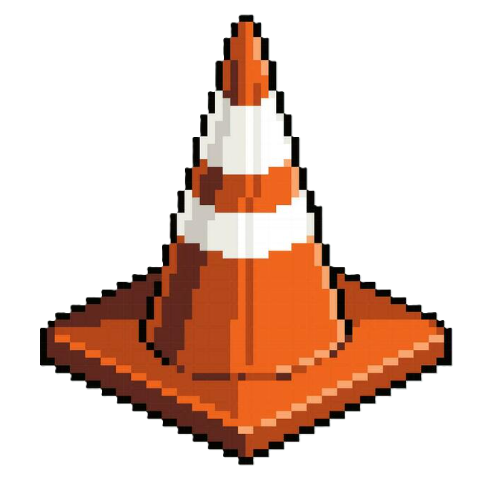
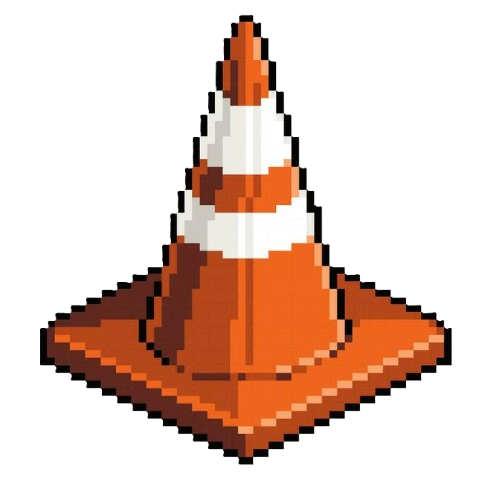
Got the layered background working as well as added images to all the sprites.

diff --git a/main.py b/main.py
@@ -45,14 +45,21 @@ FramePerSec = pygame.time.Clock()
 window = pygame.display.set_mode((SCREEN_WIDTH, SCREEN_HEIGHT), pygame.SCALED)
 pygame.display.set_caption("Game")
 
-# Load the background image
-bg_img1 = pygame.transform.scale(pygame.image.load('assets/background1.jpg'), (SCREEN_WIDTH, SCREEN_HEIGHT))
-bg_imgs = [bg_img1]
+# Load images
+bg_img1 = pygame.transform.scale(pygame.image.load('assets/background_v2/foreground.png').convert_alpha(), (SCREEN_WIDTH, SCREEN_HEIGHT))
+bg_img2 = pygame.transform.scale(pygame.image.load('assets/background_v2/back-buildings.png').convert_alpha(), (SCREEN_WIDTH, SCREEN_HEIGHT))
+bg_img3 = pygame.transform.scale(pygame.image.load('assets/background_v2/far-buildings.png').convert_alpha(), (SCREEN_WIDTH, SCREEN_HEIGHT))
+bg_imgs = [bg_img3,bg_img2,bg_img1]
+player_imgs = []
+for i in range(8): player_imgs.append(pygame.transform.scale((pygame.image.load('assets/fugitive/fugitive_%d.png' % (i+1)).convert_alpha()),(SCREEN_WIDTH*0.06, SCREEN_HEIGHT*0.1)))
+cone_image = pygame.transform.scale(pygame.image.load('assets/cone.png').convert_alpha(),(SCREEN_WIDTH*0.06, SCREEN_HEIGHT*0.1))
+dumpster_image = pygame.transform.scale(pygame.image.load('assets/dumpster.png').convert_alpha(),(SCREEN_WIDTH*0.2, SCREEN_HEIGHT*0.3))
+cop_image = pygame.transform.scale(pygame.image.load('assets/cop.png').convert_alpha(),(SCREEN_WIDTH*0.12, SCREEN_HEIGHT*0.2))
 
 # Create the player and platform objects
-P1 = player.Player(SCREEN_WIDTH, SCREEN_HEIGHT)
+P1 = player.Player(SCREEN_WIDTH, SCREEN_HEIGHT, player_imgs)
 PT1 = platform.Platform(SCREEN_WIDTH, SCREEN_HEIGHT)
-BG = bg.Background(bg_imgs)
+BG = bg.Background(bg_imgs, [SPEED-2, SPEED-1, SPEED])
 
 Splash_screen.SplashScreen.run(window)
 
@@ -76,7 +83,7 @@ pygame.time.set_timer(timerSpawnCop, 5000)
 platforms = pygame.sprite.Group()
 platforms.add(PT1)
 all_sprites = pygame.sprite.Group()
-all_sprites.add(PT1)
+#all_sprites.add(PT1)
 all_sprites.add(P1)
 small_enemies = pygame.sprite.Group()
 large_enemies = pygame.sprite.Group()
@@ -86,14 +93,14 @@ cop_spawned = False  # Track whether the cop has been spawned
         
 def spawn_enemySmall():
     if random.randint(1, 4) < 3:    
-        enemy = enemySmall.PassibleEnemy(SCREEN_WIDTH, SCREEN_HEIGHT)
+        enemy = enemySmall.PassibleEnemy(SCREEN_WIDTH, SCREEN_HEIGHT, cone_image)
         small_enemies.add(enemy)
         enemies.add(enemy)
         all_sprites.add(enemy)
 
 def spawn_enemyLarge():
-    if random.randint(1, 5) < 3:
-        enemy = enemyLarge.NotPassibleEnemy(SCREEN_WIDTH, SCREEN_HEIGHT)
+    if random.randint(1, 100) < 3:
+        enemy = enemyLarge.NotPassibleEnemy(SCREEN_WIDTH, SCREEN_HEIGHT, dumpster_image)
         large_enemies.add(enemy)
         enemies.add(enemy)
         all_sprites.add(enemy)
@@ -119,15 +126,14 @@ while True:
         if event.type == timerMin:
             score += BONUS_SCORE
         if event.type == timerSpawnCop and not cop_spawned:
-            C1 = cop.Cop(SCREEN_WIDTH, SCREEN_HEIGHT, PT1)  # Spawn the cop
+            C1 = cop.Cop(SCREEN_WIDTH, SCREEN_HEIGHT, PT1, cop_image)  # Spawn the cop
             all_sprites.add(C1)
             cop_spawned = True
-
-    # Fill the window with black            
-    window.fill((0, 0, 0))
     
     # Render the background
-    BG.update(SPEED)
+    BG.update()
+    # Fill the window with black            
+    window.fill((0, 0, 0))
     BG.render(window)
     
     # Move & update the player
@@ -136,7 +142,7 @@ while True:
     
     # Render all sprites
     for entity in all_sprites:
-        window.blit(entity.surf, entity.rect)
+        window.blit(entity.image, entity.rect)
     
     # Move all enemies
     for enemy in enemies:

diff --git a/winkenj_files/background.py b/winkenj_files/background.py
@@ -2,8 +2,8 @@ import pygame
 
 
 class Background():
-    def __init__(self,bg_imgs):
-        
+    def __init__(self,bg_imgs,speeds):
+        '''
         self.bg_img = bg_imgs[0]
         self.rect = self.bg_img.get_rect()
 
@@ -11,17 +11,36 @@ class Background():
         self.X1 = 0
         self.Y2 = 0
         self.X2 = self.rect.width
-        
-    def update(self,speed):
+        '''
+        self.layers = []
+        for i in range(len(bg_imgs)):
+            self.layers.append({
+                "image": bg_imgs[i],
+                "x": 0,
+                "speed": speeds[i]
+            })
+            
+    def update(self):
+        '''
         self.X1 -= speed
         self.X2 -= speed
         if self.X1 <= -self.rect.width:
             self.X1 = self.rect.width
         if self.X2 <= -self.rect.width:
             self.X2 = self.rect.width
-             
+        '''
+        for layer in self.layers:
+            layer["x"] -= layer["speed"]  # Move each layer based on its speed
+            if layer["x"] <= -layer["image"].get_width():
+                layer["x"] = 0 # Reset when it goes off-screen
+                
     def render(self,window):
+        '''
         window.blit(self.bg_img, (self.X1, self.Y1))
         window.blit(self.bg_img, (self.X2, self.Y2))
-        
+        '''
+        for layer in self.layers:
+            window.blit(layer["image"], (layer["x"], 0))  # Draw the image
+            # Draw a second image to ensure seamless scrolling
+            window.blit(layer["image"], (layer["x"] + layer["image"].get_width(), 0))
         

diff --git a/winkenj_files/player.py b/winkenj_files/player.py
@@ -10,12 +10,16 @@ FRIC = -0.12
 class Player(pygame.sprite.Sprite):
     def __init__(self,
                  screen_width,
-                 screen_height):
+                 screen_height,
+                 images):
         super().__init__()
 
         # Create the player
+        self.index = 0
+        self.images = images
+        self.image = self.images[self.index]
         self.surf = pygame.Surface((screen_width*0.06, screen_height*0.1))
-        self.surf.fill((255, 0, 0))
+        #self.surf.fill((255, 0, 0))
         self.rect = self.surf.get_rect(center=(screen_width*0.2, screen_height))
         self.vec = pygame.math.Vector2
         self.pos = self.vec((screen_width*0.2, screen_height))
@@ -81,6 +85,13 @@ class Player(pygame.sprite.Sprite):
             self.pos.x = screen_width
         if self.pos.x < 0:
             self.pos.x = 0
-                
+            
+        self.index += 1
+        if self.index >= len(self.images):
+            self.index = 0
+        self.image = self.images[self.index]
+        
         self.rect.midbottom = self.pos
+        
+        
         

diff --git a/carterad_files/cop.py b/carterad_files/cop.py
@@ -7,11 +7,12 @@ JUMP_THRESHOLD = 100  # Distance at which the cop will jump when near an enemy
 MOVE_BACK_DELAY = 15 #Timer for moving back. If player avoids cones/dumpsters for 15sec cop oves back 1 space/to start
 
 class Cop(pygame.sprite.Sprite):
-    def __init__(self, screen_width, screen_height, platform):
+    def __init__(self, screen_width, screen_height, platform,image):
         super().__init__()
         # Cop size is 2x the player size
+        self.image = image
         self.surf = pygame.Surface((screen_width * 0.12, screen_height * 0.2))
-        self.surf.fill((255, 255, 0))  # Yellow to distinguish the cop
+        #self.surf.fill((255, 255, 0))  # Yellow to distinguish the cop
         self.rect = self.surf.get_rect(center=(-screen_width * 0.1, platform.rect.top))  # Start off the left edge
         self.vel = pygame.math.Vector2(0, 0)
         self.on_ground = True

diff --git a/winkenj_files/not_passible_enemy.py b/winkenj_files/not_passible_enemy.py
@@ -3,11 +3,13 @@ import pygame
 class NotPassibleEnemy(pygame.sprite.Sprite):
       def __init__(self,
                    screen_width,
-                   screen_height):
+                   screen_height,
+                   image):
         super().__init__()
-        self.surf = pygame.Surface((screen_width*0.20, screen_height*0.1))
-        self.surf.fill((0, 0, 255)) 
-        self.rect = self.surf.get_rect(center = (screen_width,screen_height*0.91))
+        self.image = image
+        self.surf = pygame.Surface((screen_width*0.2, screen_height*0.3))
+        #self.surf.fill((0, 0, 255)) 
+        self.rect = self.surf.get_rect(center = (screen_width,screen_height*0.85))
  
       def move(self,speed):
         self.rect.move_ip(-speed,0)

diff --git a/winkenj_files/platform.py b/winkenj_files/platform.py
@@ -6,11 +6,10 @@ from pygame.locals import *
 class Platform(pygame.sprite.Sprite):
     def __init__(self,
                  screen_width,
-                 screen_height,
-                 image = []):
+                 screen_height):
         super().__init__()
-        
         # Create the platform
         self.surf = pygame.Surface((screen_width, screen_height * 0.10))
-        self.surf.fill((255, 255, 255))
+        #self.surf.fill((255, 255, 255))
         self.rect = self.surf.get_rect(center=(screen_width/2, screen_height))
+        self.surf.set_alpha(0)

diff --git a/winkenj_files/passible_enemy.py b/winkenj_files/passible_enemy.py
@@ -3,10 +3,12 @@ import pygame
 class PassibleEnemy(pygame.sprite.Sprite):
       def __init__(self,
                    screen_width,
-                   screen_height):
+                   screen_height,
+                   image):
         super().__init__()
+        self.image = image
         self.surf = pygame.Surface((screen_width*0.06, screen_height*0.1))
-        self.surf.fill((0, 255, 0)) 
+        #self.surf.fill((0, 255, 0)) 
         self.rect = self.surf.get_rect(center = (screen_width,screen_height*0.91))
  
       def move(self,speed):
